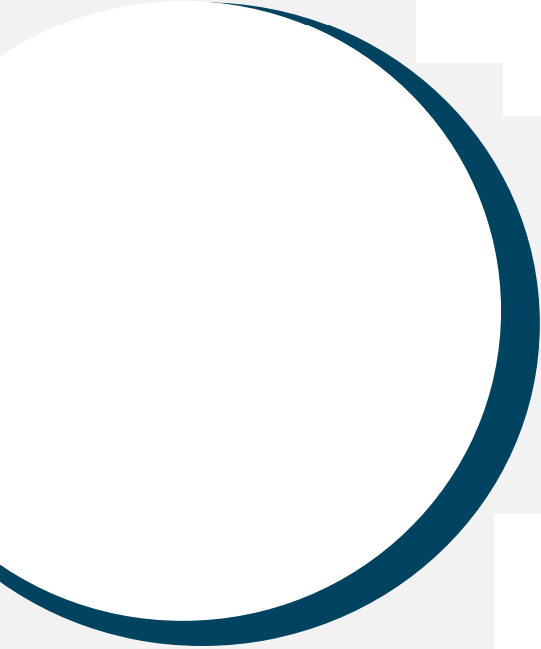
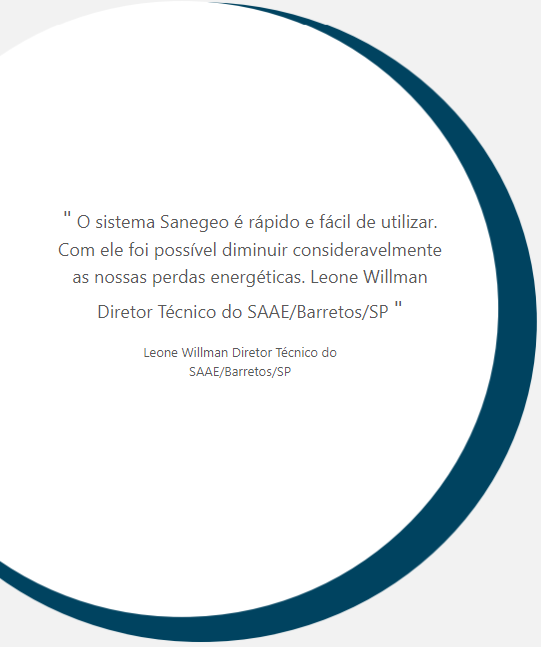
Adicionado formulário, circulos trocados por imagens

diff --git a/index.html b/index.html
@@ -309,54 +309,13 @@
             <img class="logoevo col-5" src="assets/logoevo.png">
         </div>
         <div class="line"></div>
-        <div class="circulos">
-            <div class="citacao1">
-                <blockquote class="cite">
-                    O sistema Sanegeo é rápido e fácil
-                    de utilizar. Com ele foi possível
-                    diminuir consideravelmente as
-                    nossas perdas energéticas.
-                    Leone Willman
-                    Diretor Técnico do SAAE/Barretos/SP
-                </blockquote>
-                <div class="name">
-                    Leone Willman
-                    Diretor Técnico do SAAE/Barretos/SP
-                </div>
-            </div>
-            <div class="citacao2">
-                <blockquote class="cite">
-                    O sistema de gestão operacional Sanegeo,
-                    que possibilita o acesso às informações em
-                    tempo real, nos possibilitou um
-                    atendimento ao consumidor muito mais
-                    rápido e eficiente.
-                </blockquote>
-                <div class="name">
-                    Vladimir Condé Responsável pela área
-                    operacional CESAMA/Juiz de Fora/MG
-                </div>
-            </div>
 
             <div class="row">
                 <img class="circulo1 col-4" src="assets/circulo1.PNG">
-                <img class="circulo2 col-4" src="assets/circulo2.PNG">
+                <img class="circulo2 col-4 offset-md-4" src="assets/circulo2.PNG">
             </div>
             <div class="row">
                 <div class="col">
-                    <div class="citacao3">
-                        <blockquote class="cite">
-                            O sistema Sanegeo possibilita a
-                            distribuição técnica com despacho
-                            de serviço remoto na palma da
-                            mão
-                        </blockquote>
-                        <div class="name">
-                            Rovério Pagotto
-                            Gerente de Planejamento da
-                            SANASA/Campinas/SP
-                        </div>
-                    </div>
                     <img class="circulo3" src="assets/circulo3.PNG">
                 </div>
             </div>
@@ -364,14 +323,21 @@
     </div>
     </div>
     <div class="line"></div>
-    <div id="contato" class="contato">
-        <img src="assets/contato.PNG">
+    <div class="row" id="contato">
+        <img class="col-3" src="assets/contato.PNG">
 
-        <form>
+        <form class="col-6 formulario">
+            <input type="text" id="name" placeholder="Nome" required>
+            <input type="email" id="email" placeholder="E-mail" required><br>
+            <input type="number" id="phone" name="phone" placeholder="Telefone" required>
+            <input type="text" id="empresa" placeholder="Empresa"><br>
+            <input type="textbox" id="mensagem" placeholder="Mensagem"><br>
+            <input type="submit" value="Enviar Mensagem">
 
         </form>
-        <a class="zapzap" href="https://wa.me/5548991690167">Fale conosco no WhatsApp!! <i class="fab fa-whatsapp"
-                style="color:green; font-size:xx-large"></i></a>
+        <a class="zapzap col-2" href="https://wa.me/5548991690167" style="color:white; background-color:green">Fale conosco no WhatsApp!!
+            <i class="fab fa-whatsapp" style="color:white; font-size:xx-large"></i>
+        </a>
     </div>
 </body>
 

diff --git a/main.css b/main.css
@@ -413,14 +413,13 @@ h1{
 
 /* Circulos */
 
-.circulos {
-    overflow: hidden;
+.circulo1 {
+    margin: auto;
 }
 
 .circulo2 {
     float: right;
-    position: absolute;
-    right: 0;
+    margin: auto;
 }
 
 .circulo3 {
@@ -430,67 +429,55 @@ h1{
     align-items: center;  
     margin-top: -80px;
 }
-
-.cite {
-    font-size: large;
-    max-width: 400px;
-    word-wrap: break-word;
-    text-align: center;
-    color:rgb(89, 89, 89);
-    width: 75%;
-}
-
-.cite:before {
-    content: open-quote;
-}
-
-.cite:after {
-    content: close-quote;
-}
-
-.name {
-    font-size: small;
-    color:rgb(89, 89, 89);
-    max-width: 200px;
-    word-wrap: break-word;
-    text-align: center;
-    margin-top: 10px;
-    margin-left: 90px;
-}
-
-.citacao1 {
-    position: relative;
-    height: 0;
-    top: 200px;
-    left: 50px;
-}
-
-.citacao2 {
-    position: relative;
-    z-index: 1;
-    height: 0;
-    right: -1200px;
-    top: 60px;
-    margin: auto;
-}
-
-.citacao3 {
-    position: relative;
-    height: 0;
-    z-index: 1;
-    right: -38em;
-    top: 100px;
-    margin: auto;
-}
-
 /* Página de Contato */
 
+.contato {
+    overflow: hidden;
+}
+
+
+
+.formulario input {
+    width: 43%;
+    padding: 12px 20px;
+    margin: 8px 20px;
+    display: inline-block;
+    border: 1px solid #ccc;
+    border-radius: 4px;
+    box-sizing: border-box;
+}
+
+.formulario input[type="textbox"] {
+    width: 91%;
+    height: 30%;
+    padding: 12px 20px;
+    margin: 8px 20px;
+    display: inline-block;
+    border: 1px solid #ccc;
+    border-radius: 4px;
+    box-sizing: border-box;
+}
+
+.formulario input[type="submit"] {
+    width: 91%;
+    padding: 12px 20px;
+    margin: 8px 20px;
+    display: inline-block;
+    border: 1px solid #ccc;
+    border-radius: 4px;
+    box-sizing: border-box;
+    background-color:rgb(61, 107, 181);
+    color: white;
+}
+
+
+
 .zapzap {
-    border-radius: 1%;
-    border-color: black;
-    border-width: 3px;
-    float: right;
+    border-radius: 10%;
+    border-color: green;
     border-style: solid;
     margin: auto;
+    text-decoration: none;
+    padding: 1em 1.5em;
 }
 
